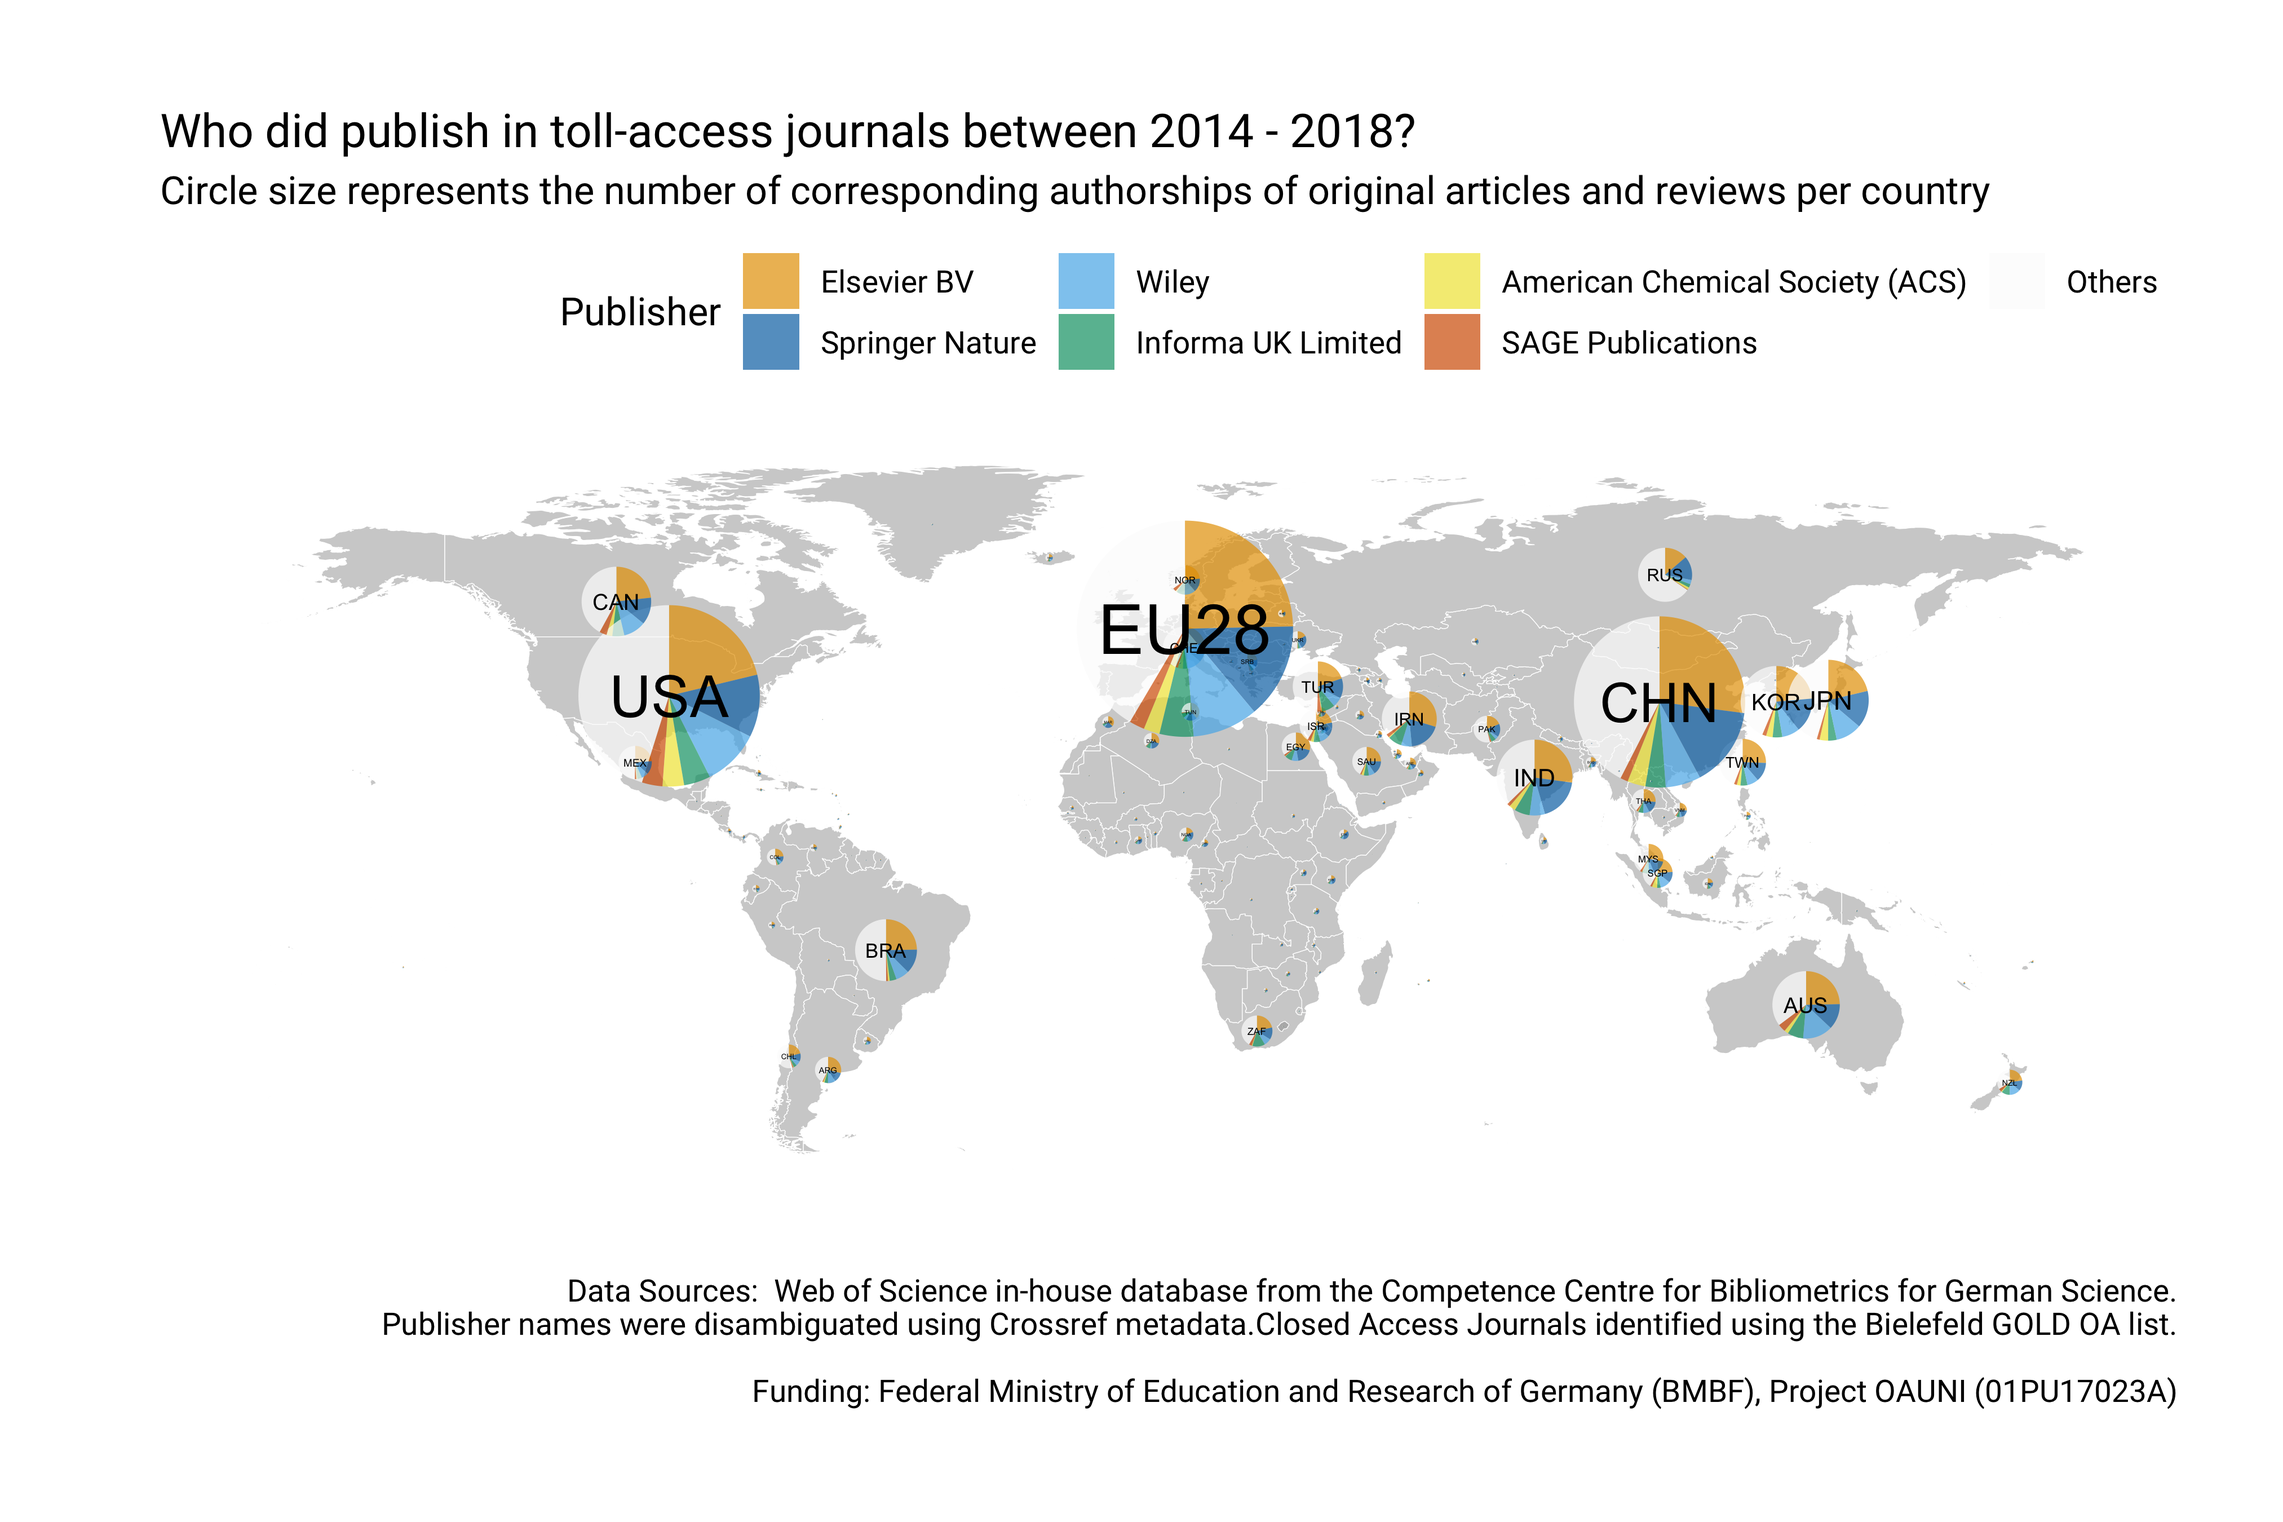
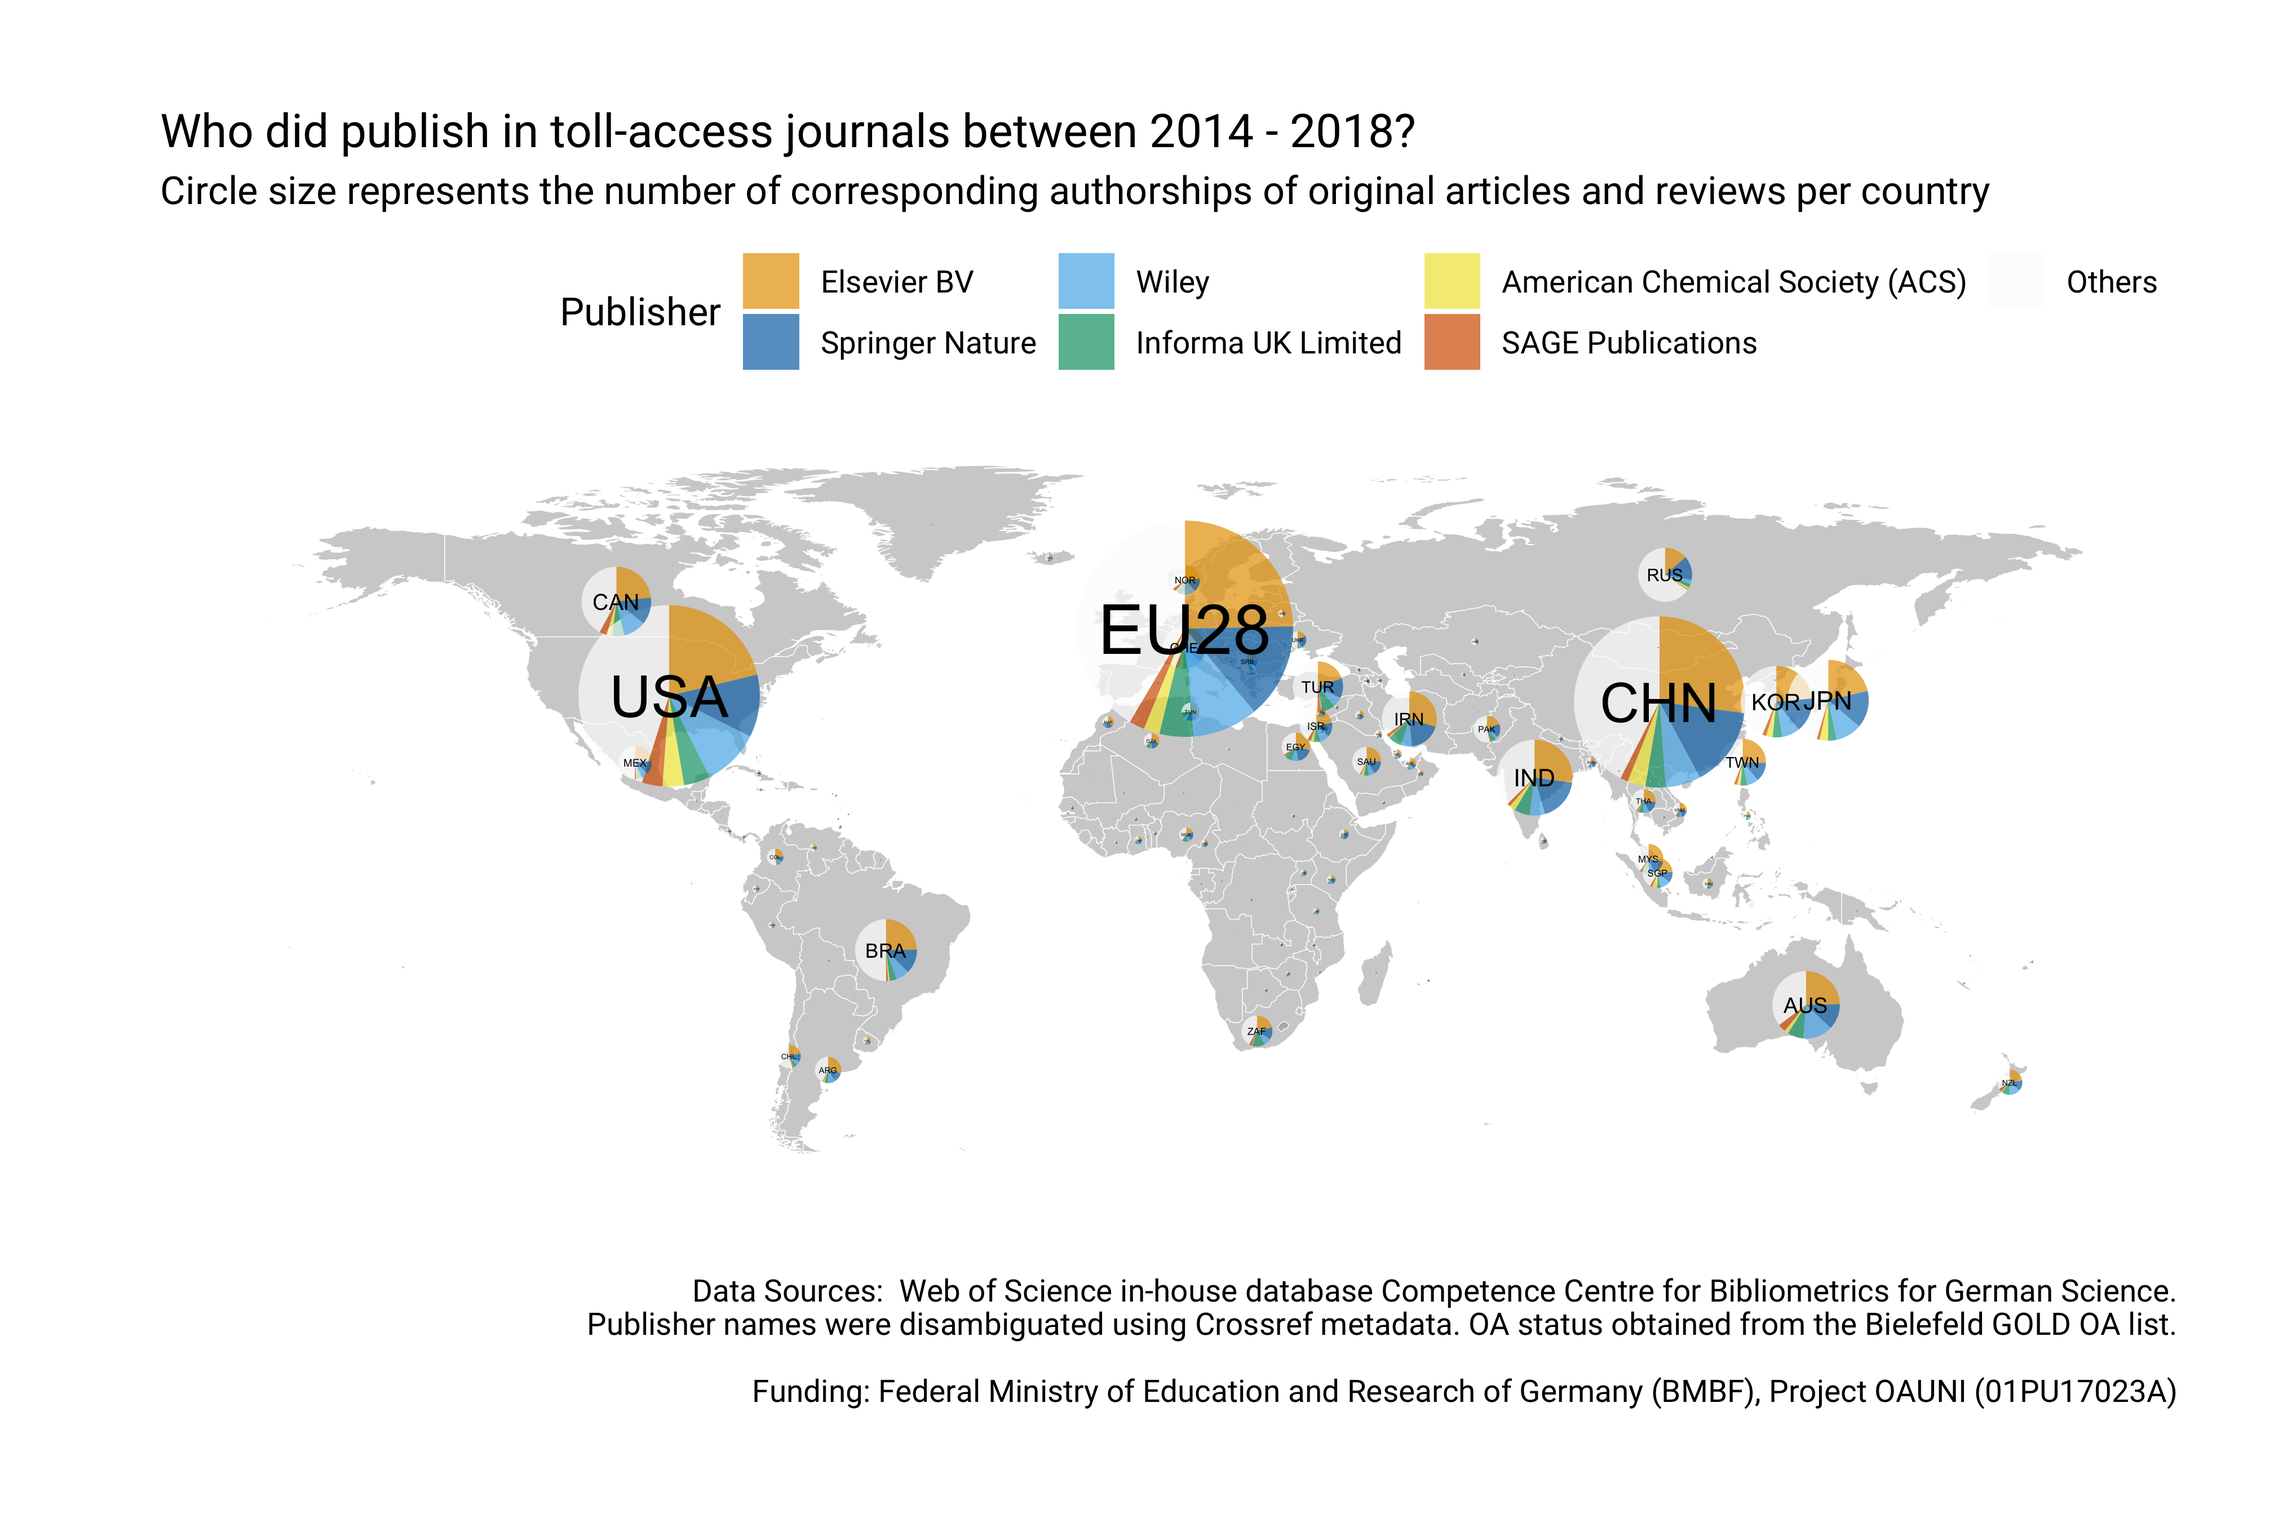
adding publisher share analysis

Changed region(s): [[0.2489, 0.84, 0.6222, 0.9022], [0.6533, 0.84, 0.7778, 0.9022]]

diff --git a/analysis/paper.md b/analysis/paper.md
@@ -26,17 +26,17 @@ publishers in terms of articles indexed in the Web of Science between
 1973-2013. Using this data, the authors were able to reveal a growing
 market concentration among a few publishing houses (Larivière, Haustein,
 and Mongeon 2015). Palzenberger (2015) provided a dataset presenting the
-number and proportion of scholarly articles per country of affiliation
-including a breakdown per author role for the period 2004-2014.
-Published in 2015, this dataset, which was obtained from the Web of
-Science in-house database from the German Competence Center for
-Bibliometrics, formed the empirical basis for demonstrating that a
-large-scale transition from a subscription-based to open access business
-model is feasible based on the current total spending on scholarly
-journals (Schimmer, Geschuhn, and Vogler 2015). Since then, analyzing
-the productivity of corresponding authors in terms of articles published
-in dedicated journal portfolios has been perceived as a critical
-component of open access negotiations.
+number and proportion of scholarly articles by country of affiliation
+including a breakdown by author role for the period 2004-2014. Published
+in 2015, this dataset, which was obtained from the Web of Science
+in-house database from the German Competence Center for Bibliometrics,
+formed the empirical basis for demonstrating that a large-scale
+transition from a subscription-based to an open access business model is
+feasible based on the current total spending on scholarly journals
+(Schimmer, Geschuhn, and Vogler 2015). Since then, analyzing the
+productivity of corresponding authors in terms of articles published in
+dedicated journal portfolios has been perceived as a critical component
+of open access negotiations.
 
 There have also been analytical applications for such datasets. Major
 bibliometric databases including the Web of Science, Scopus and
@@ -48,7 +48,7 @@ operating under a fully open access or toll-access business model. In
 its most recent edition, the Leiden Ranking presents open access
 indicators at the level of universities (Leeuwen, Costas, and
 Robinson-Garcia 2019). In addition to university-specific data, the
-German Open Access Monitor, provides breakdowns per publisher and
+German Open Access Monitor, provides breakdowns by publisher and
 journal, as well as the inclusion of publications from non-university
 research institutions based in Germany (Mittermaier et al. 2018).
 
@@ -69,8 +69,9 @@ The data cannot only serve as a critical input for negotiations in the
 context of transformative agreements, but also in the quantitative study
 of the academic publishing industry and the open access uptake across
 countries. For instance, national transformative agreements with large
-publishers will likely have an impact on the open access share of a
-country in the near future. To demonstrate the dataset’s potential
+publishers will increase opportunities to publish open access. They will
+therefore likely have an impact on the open access share of a country
+with such agreements. To demonstrate the dataset’s potential
 significance, we will present two new findings using the dataset: a
 global map of publishers’s toll-access market share, and an analysis of
 country of affiliation by publisher. Source code used for compiling the
@@ -87,40 +88,41 @@ Bibliometrics. The following data were obtained and aggregated:
   - Country of affiliations
   - ISSN
   - Publication years 2014 - 2018
-  - Author Roles
+  - Author roles, interpreting the role “reprint author” as
+    corresponding authorship.
 
-Our database retrieval reflected that it has become challenging to count
-corresponding author affiliations straight where one country receives
-full credit for the publication (Huang, Lin, and Chen 2011), because the
-Web of Science has begun to syetmatically keep track of more than one
+There has been some concerns to allocate open access spending based on
+corresponding authorships, because it has become challenging to count
+corresponding author affiliations straight, i.e. a counting method where
+one institution or country receives full credit for a publication
+(Huang, Lin, and Chen 2011, @Gumpenberger\_2018). Indeed, the Web of
+Science has begun to systematically keep track of more than one
 corresponding author recently (see Figure 1). We also found that the Web
 of Science did record more than one corresponding author for 6.2% of
 indexed articles published between 2014 - 2018. Moreover, a 5% of
 corresponding authors author was internationally co-located (see Figure
-2). These results support some concerns about how to allocate open
-access spending based on corresponding authorships (Gumpenberger,
-Hölbling, and Gorraiz 2018). Here, we decided to use whole counting
-where every original article or review was counted once per country of
-affiliation of the corresponding authors.
+2). We therefore decided to use whole counting where every original
+article or review was counted once per country of affiliation of the
+corresponding author(s).
 
 ![Figure 1](002_kb_rp_coverage_files/figure-gfm/ca_author_count-1.png)
 
 ![Figure 2](002_kb_rp_coverage_files/figure-gfm/ca_country_count-1.png)
 
-After obtaining aggregated article counts at the country and journal
-level from the Web of Science, Crossref’s REST API was queried to
+After obtaining aggregated article counts at the level of countries and
+journals from the Web of Science, Crossref’s REST API was queried to
 retrieve publisher and journal titles. To control for developments of
 the publishing market resulting in name changes of publishers or journal
 titles over time, only the most frequent field name was used from the
-API facet counts. Drawing on ISSN-L, a jouranl identifier that links
+API facet counts. Drawing on ISSN-L, a journal identifier that links
 between different media versions of a journal, ISSN variants were
 obtained to improve the retrieval. Next, the open access status per
-journal was added to the dataset. This information was retrieved from a
-comprehensive list of open access journals indexed in the Web of
-Science, which joins open access journal information from various
-sources including the DOAJ, PubMed Central and the Directory of Open
-Access Scholarly Resources (ROAD) (Bruns et al. 2019). Again, ISSN-L
-were used for the matching procedure.
+journal was identified and added to the dataset. This information was
+retrieved from a comprehensive list of open access journals indexed in
+the Web of Science, which joins open access journal information from
+various sources including the DOAJ, PubMed Central and the Directory of
+Open Access Scholarly Resources (ROAD) (Bruns et al. 2019). Again,
+ISSN-L were used for the matching procedure.
 
 ## Data and Code availability
 
@@ -134,14 +136,14 @@ Boettiger, and Mullen 2017) is accessible at
 ## The Dataset
 
 Overall, our dataset consists of two separate tables, which are openly
-available at <https://github.com/subugoe/oa2020cadata> as
-comma-separated values (csv) files and Excel spreadsheets.
+available at (Link to Zenodo) as comma-separated values (csv) files and
+Excel spreadsheets.
 
 ### Global journal and publisher data
 
-The first file, named `publisher_14_18`, contains information about the
-publishing market landscape for the period 2014-2018 in terms of the
-aggregated number of articles and reviews by year and journal
+The first file, named `journal_publisher_14_18`, contains information
+about the publishing market landscape for the period 2014-2018 in terms
+of the aggregated number of articles and reviews by year and journal
 represented by the ISSN identifier indexed in the Web of Science. Table
 1 describes the data variables in detail. We were able to retrieve
 publisher and journal titles from Crossref for 88 % of all journals,
@@ -152,7 +154,7 @@ records indexed in the Web of Science with journal information in the
 five-years period 2014-2018.
 
 Data Schema
-`publisher_14_18`:
+`journal_publisher_14_18`:
 
 | Variable           | Description                                                                                                                                 | Source                                                                                         |
 | :----------------- | :------------------------------------------------------------------------------------------------------------------------------------------ | :--------------------------------------------------------------------------------------------- |
@@ -194,9 +196,9 @@ Schema:
 
 ### Global publisher market share
 
-Based on the dataset `publisher_14_18` the global market share of
-publishing houses in terms of articles and reviews indexed in the Web of
-Science can be analyzed for the period 2014-2018. Table 1 shows the
+Based on the dataset `journal_publisher_14_18` the global market share
+of publishing houses in terms of articles and reviews indexed in the Web
+of Science can be analyzed for the period 2014-2018. Table 1 shows the
 overall market share for the ten largest publishers. Figure 1 presents a
 breakdown by journal business model, differentiating between toll access
 and fully open
@@ -222,13 +224,13 @@ indexed in the Web of Science
 ![Figure 3](figure/global_publisher_share.png)
 
 Our data confirms that the global publishing landscape is dominated by a
-few large publishers. In total, ten publishers accounted foralmost
+few large publishers. In total, ten publishers accounted for around
 two-thirds of articles published between 2014 - 2018. The Big 3,
-Elsevier, Springer Nature and Wiley, even accounted for a percentage of
-46 %. However, further analysis suggests large differences when
+Elsevier, Springer Nature and Wiley, accounted for a percentage of 46 %.
+However, further analysis suggests large differences when
 differentiating between toll and fully open access: The market for fully
-open access journals is so far less domintated by major publishing
-houses. A notable exeption is Springer Nature with its large fully open
+open access journals seems to be far less dominated by major publishing
+houses. A notable exception is Springer Nature with its large fully open
 access portfolio including BioMed Central and the large mega-journals
 Scientific Reports and Nature Communications.
 
@@ -243,30 +245,43 @@ largest market for toll-access publishing between 2014-18.
 
 ![Figure 4](figure/map.png)
 
+The following figure shows the country share per publisher in terms of
+original articles and reviews published in toll-access journals using
+corresponding author affiliations. The flipped x-axis shows the top 10
+countries of affiliations in terms of articles published, while the
+y-axis depicts the percentage per publisher. The figure indicates, which
+countries were of particularly importance to a publisher. Furthermore,
+it suggests large variations across publishers. Take for instance the
+publisher Royal Society of Chemistry. Around every third article
+published in a toll-access journal was submitted from an author based in
+China, while the overall share of China-based authors was 17 %.
+
+![](figure/publisher_share.png)
+
 ## Responsible use and limitations
 
 Although the Web of Science database is a well-established bibliometric
 database in the quantitative science studies it comes with certain
-limitations that need careful consideration when interpreting our data.
-First, the Web of Science is selective in terms of journal inclusion,
-likely not covering the whole journal portfolio of the investigated
-publishers. Although publisher names were disambiguated, journal title
-transfers between publishers were not tracked. Furthermore, the year of
-inclusion in a journal issue, i.e. print publication date, was used.
-However, there can be considerable time-lag between online-first
-publication and issue inclusion.
+limitations that need careful consideration when using and interpreting
+our data. First, the Web of Science is selective in terms of journal
+inclusion, likely not covering the whole journal portfolio of the
+investigated publishers. Although publisher names were disambiguated,
+journal title transfers between publishers were not tracked.
+Furthermore, the year of inclusion in a journal issue, i.e. print
+publication date, was used. However, there can be a considerable
+time-lag between online-first publication and issue inclusion.
 
 Moreover, as any other bibliometric databases, the data structure can be
 subject of change. In particular, our pretests suggest that the Web of
 Science author role field used to identify corresponding authorships has
 undergone a change recently, starting to covering more than one reprint
-author per article.
+resp. corresponding author per article.
 
-The Bielefeld GOLD OA list was used to determine fully open access
-journals. However, it does not contain the date when a
+The Bielefeld GOLD OA list (Bruns et al. 2019) was used to determine
+fully open access journals. However, it does not contain the date when a
 subscription-based journal became fully open access. The figures should
-be therefore interpreted numbers of articles available in current fully
-open access journals, instead of published in an fully open access
+be therefore interpreted as numbers of articles available in current
+fully open access journals, instead of published in an fully open access
 journal at the time of publication. Open access article counts are
 therefore upper estimates.
 
